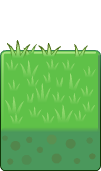
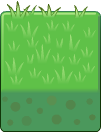
Draw the ground on the legs level

diff --git a/www/js/draw/drawGround.js b/www/js/draw/drawGround.js
@@ -9,12 +9,12 @@ export default function drawGround(canvas, state) {
 
   const scale = state.assets.scale;
   const tileWidth = state.world.ground.tileWidth * scale;
-  const tileHeight = state.world.ground.tileHeight * scale;
+  const tileHeight = (state.world.ground.tileHeight + state.world.groundOffset) * scale;
   const x = groundBody.position.x * scale;
   const y = (state.world.height - groundBody.position.y) * scale;
 
   ctx.save();
-  ctx.translate(x, y);
+  ctx.translate(x, y - state.world.groundOffset * scale);
   for(let i = 0; i < numTiles; i++) {
     ctx.drawImage(tileImg, 0, 0, tileWidth, tileHeight);
     ctx.translate(tileWidth, 0);

diff --git a/www/js/store/initialState.js b/www/js/store/initialState.js
@@ -1,14 +1,16 @@
 const GRAVITY = -5000;
 
-const GROUND_HEIGHT = 150;
 const GROUND_SPEED = -300;
 const JUMP_VELOCITY_Y = 1500;
 
 const WORLD_HEIGHT = 500;
+const GROUND_HEIGHT = 100;
+const GROUND_TILE_WIDTH = 100;
+
 const PLAYER_HEIGHT = 100;
 const PLAYER_POSITION_X = 50;
+
 const OBSTACLE_WIDTH = 50;
-const GROUND_TILE_WIDTH = 100;
 
 export default {
   assets: {
@@ -27,6 +29,7 @@ export default {
     width: 0,
     height: WORLD_HEIGHT,
     groundHeight: GROUND_HEIGHT,
+    groundOffset: 30,
     worldSpeed: GROUND_SPEED,
     jumpVelocity: { x: 0, y: JUMP_VELOCITY_Y },
     objects: [
